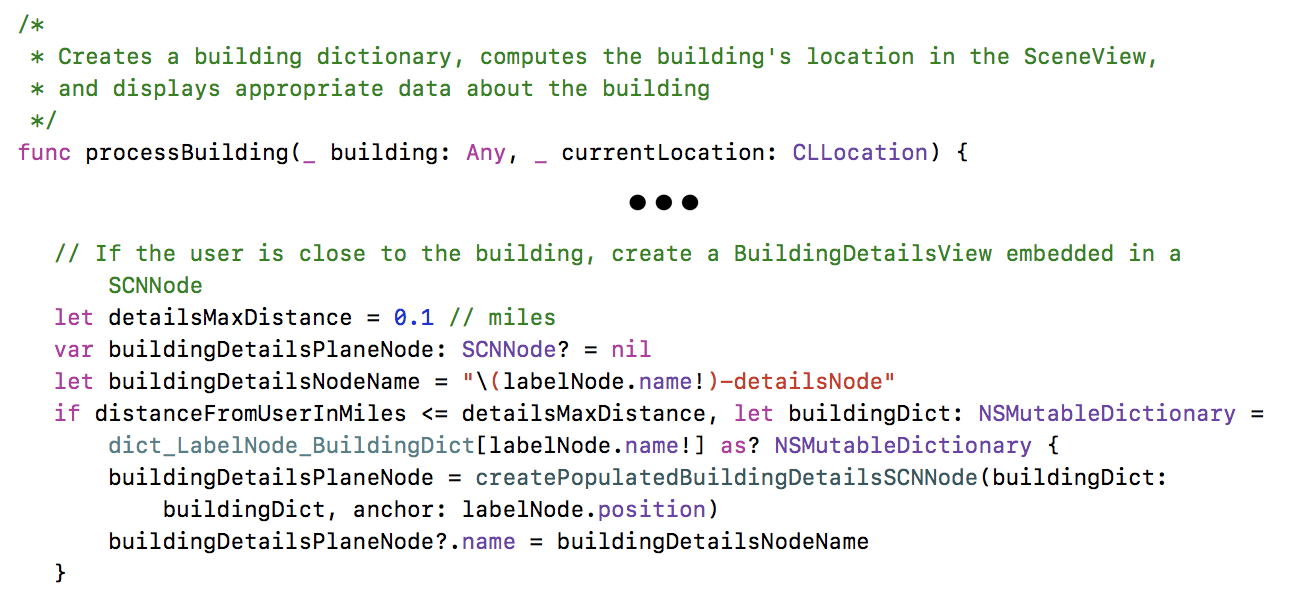
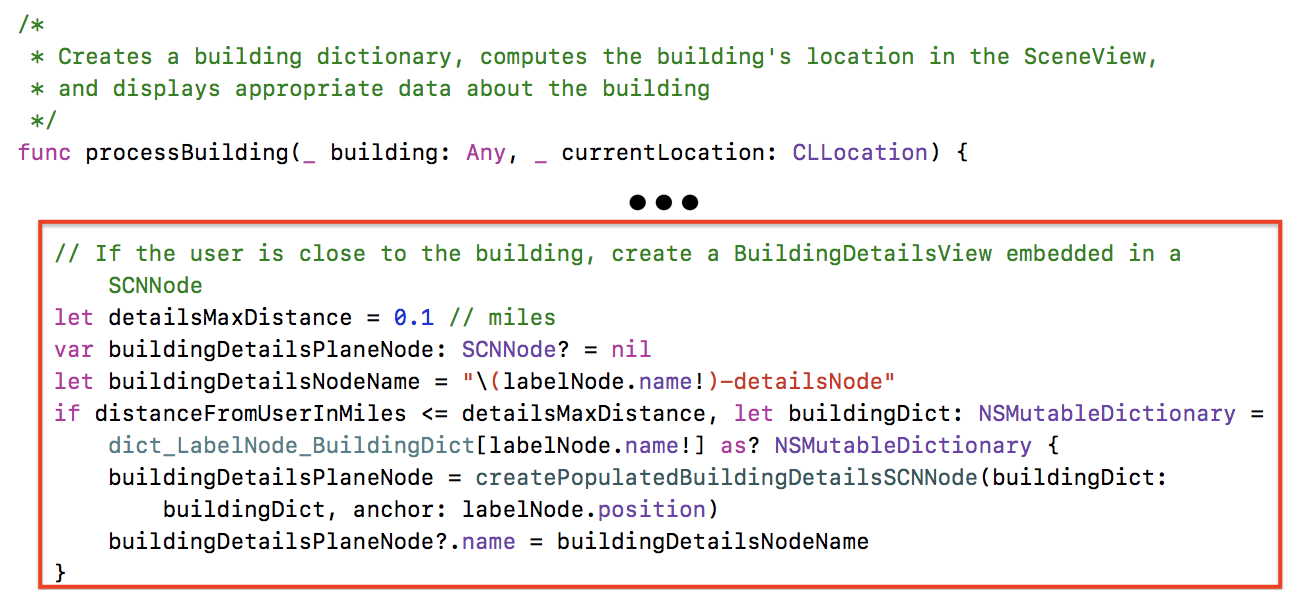
Add BuildingDetailsViewController documentation

Changed region(s): [[0.0309, 0.3661, 1.0, 1.0]]

diff --git a/literature-review-site/tutorials/documentation/documentation.html b/literature-review-site/tutorials/documentation/documentation.html
@@ -346,13 +346,13 @@ func distanceBetweenPointsInMiles(lat1: Double, long1: Double, lat2: Double, lon
                 </code></pre>
 
                 <h3>Processing Buildings - Creating Building Label Nodes</h3>
+                <p>Once we've computed a building's distance from the user, we create a SCNNode containing the
+                    building's name. Later, we will add this node to the scene.</p>
                 <div class="row">
                     <div class="column">
-                        <p>Once we've computed a building's distance from the user, we create a SCNNode containing the
-                            building's name. Later, we will add this node to the scene.</p>
-                        <img src="images/create-building-label-node-highlight.png" width="120%"/>
+                        <img src="images/create-building-label-node-highlight.png" width="150%"/>
                     </div>
-                    <div class="column" align="center">
+                    <div class="column" align="right">
                         <div>
                             <img src="images/building-label-node.jpeg" width="50%"/>
                         </div>
@@ -431,21 +431,77 @@ func getBearingBetweenPoints(point1 : CLLocation, point2 : CLLocation) -> Double
                 </code></pre>
 
                 <p>Steps 2 and 3 are self-explanatory and can be tailored to your own application as you wish.</p>
-                <p>Finally, after all that math, the building label node has been created! Later, we will discuss adding the node to the scene. </p>
+                <p>Finally, after all that math, the building label node has been created! Later, we will discuss adding
+                    the node to the scene. </p>
 
-                <hr />
+                <hr/>
                 <h3>Processing Buildings - Creating Building Detail Nodes</h3>
                 <div class="row">
                     <div class="column">
-                        <p>When the user is close to a building, we render a SCNNode that contains a BuildingDetailsView.</p>
-                        <img src="images/process-building-details-node.png" width="120%"/>
+                        <p>When the user is close to a building, we render a SCNNode that contains a
+                            BuildingDetailsView.</p>
+                        <img src="images/process-building-details-node.png" width="150%"/>
                     </div>
-                    <div class="column" align="center">
+                    <div class="column" align="right">
                         <div>
                             <img src="images/building-detail-node.jpeg" width="50%"/>
                         </div>
                     </div>
                 </div>
+                    <p>The BuildingDetailsNode is a SCNNode that contains a BuildingDetailsView. This view is exactly
+                        the same as the one that is shown to the user when the user taps on a building name to view the
+                        building details.</p>
+                    <p>First, we create the BuildingDetails xib and the BuildingDetailsViewController. The BuildingDetails view is described by a xib file in order to be reusable both in BuildingDetails nodes and the BuildingDetailsView.</p>
+
+                <div class="row">
+                    <div class="column">
+                        <img src="images/building-details-xib.png" width = 100% />
+                    </div>
+                    <div class="column">
+                        <pre><code>
+//
+//  BuildingDetailsViewController.swift
+//  VT AR Tour
+//
+//  Created by Patrick Gatewood on 11/21/17.
+//  Copyright © 2017 Patrick Gatewood. All rights reserved.
+//
+
+import UIKit
+
+protocol BuildingDetailsDelegate {
+    func closeBuildingDetailsView(viewController: UIViewController)
+}
+
+class BuildingDetailsViewController: UIViewController {
+
+    @IBOutlet var buildingNameLabel: UILabel!
+    @IBOutlet var buildingImageview: UIImageView!
+    @IBOutlet var scrollView: UIScrollView!
+    @IBOutlet var buildingDescriptionLabel: UILabel!
+    @IBOutlet var closeButton: UIButton!
+
+    var delegate: BuildingDetailsDelegate?
+
+    // Closes the BuildingDetailsView
+    @IBAction func close(_ sender: UIButton) {
+        if let buildingDetailsDelegate = delegate {
+            buildingDetailsDelegate.closeBuildingDetailsView(viewController: self)
+        }
+    }
+
+    // Give the view rounded corners
+    override func viewDidLoad() {
+        view.layer.cornerRadius = 20;
+        view.layer.masksToBounds = true;
+    }
+}
+                        </code></pre>
+                    </div>
+                </div>
+                <p>It is worth noting here that the BuildingDetailsViewController defines its own protocol. This allows its delegate to handle removing the ViewController from its parent, as that functionality is not supported without delegation. The implementation in <code>ARViewController.swift</code> simply animates out the ViewController's view and removes the ViewController from itself on completion.</p>
+
+
 
             </section>
 
